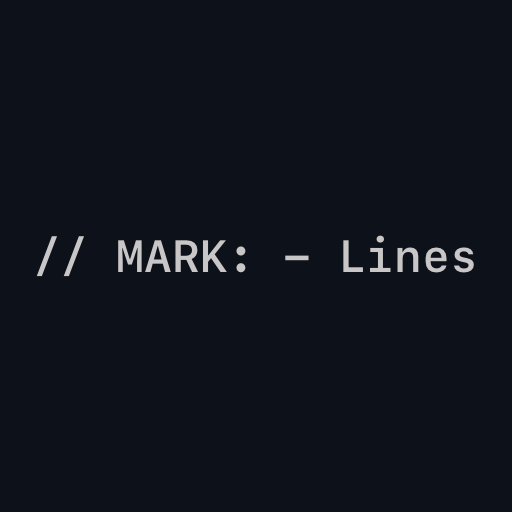
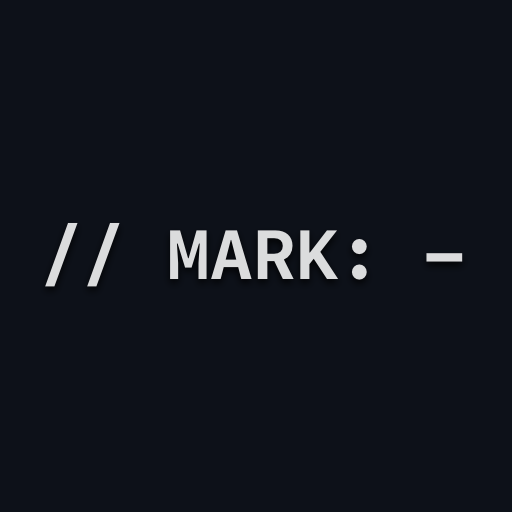
v0.1.4

Changed region(s): [[0.1562, 0.4375, 0.9375, 0.5625], [0.0625, 0.4375, 0.1562, 0.5625]]

diff --git a/src/extension.ts b/src/extension.ts
@@ -20,10 +20,12 @@ export function activate(context: vscode.ExtensionContext) {
 
   print("Extension activated")
 
+  //
   // MARK: - Colors
 
   const color = `var(--vscode-editorGroup-border)`
 
+  //
   // MARK: - Decorations
 
   const lineAboveDeco = win.createTextEditorDecorationType({
@@ -42,7 +44,7 @@ export function activate(context: vscode.ExtensionContext) {
     `,
   })
   const boldDeco = win.createTextEditorDecorationType({
-    isWholeLine: true,
+    isWholeLine: false,
     fontWeight: "bold !important",
   })
 
@@ -57,7 +59,6 @@ export function activate(context: vscode.ExtensionContext) {
     const doc = ed.document
     const text = doc.getText()
 
-    // Collect all decorations
     const aboves: DecoList = []
     const belows: DecoList = []
     const marks: DecoList = []
@@ -77,9 +78,9 @@ export function activate(context: vscode.ExtensionContext) {
       if (below) belows.push(decoration)
     }
 
+    ed.setDecorations(boldDeco, marks)
     ed.setDecorations(lineAboveDeco, aboves)
     ed.setDecorations(lineBelowDeco, belows)
-    ed.setDecorations(boldDeco, marks)
 
     print(`Marks:${marks.length} Above:${aboves.length} Below:${belows.length}`)
   }
